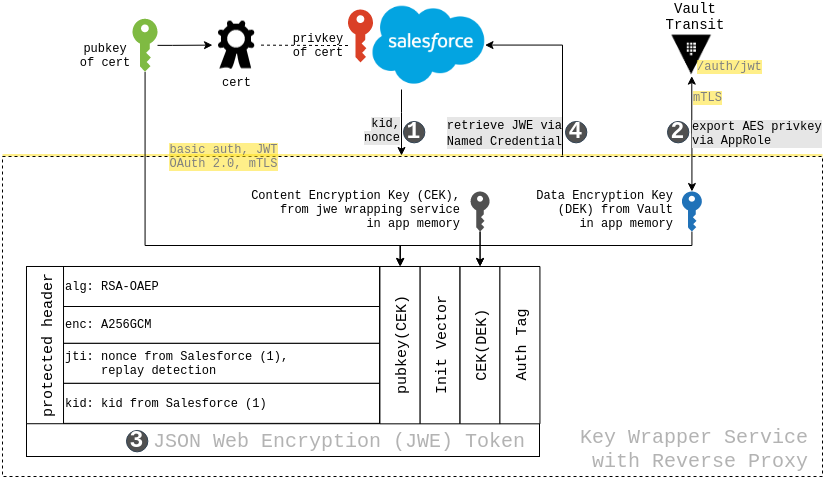
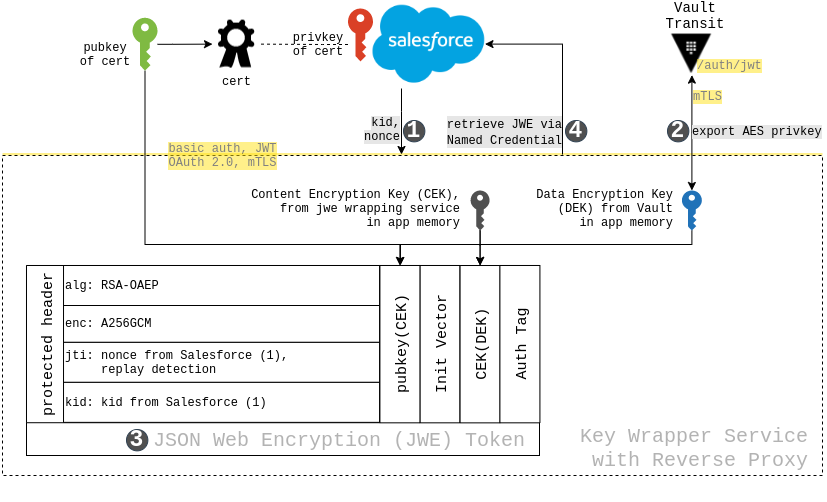
Improve dev setup instructions (#97)
* improve dev setup instructions
* explain Vault `auth_jwt_validation_pubkeys`
* Remove AppRole ref from picture
* document `write_jwt_to_tfvars.py`

diff --git a/docs/key_consumer_setup.md b/docs/key_consumer_setup.md
@@ -24,6 +24,15 @@ Configure Salesforce to authenticate its HYOK requests to `distributey` using JW
        - `Unique Name`: this is the `KID` of the `JWT` token, thus must be unique. Recommended naming scheme: `jwt_kid_salesforce_serviceX`
      - Download the certificate and save it by its `Unique Name`. It must later be configured in `distributey` (`config/auth/`).
      - Salesforce provides a certificate from which `distributey` only needs its public key. Use this command to extract it: `openssl x509 -pubkey -noout -in jwt_kid_salesforce_serviceX.crt > jwt_kid_salesforce_serviceX.pub`
+     - Store the same public `jwt_kid_salesforce_serviceX.pub` key on the Vault JWT auth backend as part of `auth_jwt_validation_pubkeys` in the Terraform variables ([`./docker/terraform/terraform.tfvars`](../docker/terraform/terraform.tfvars)). This task is automated in [dev/write_jwt_to_tfvars.py](../dev/write_jwt_to_tfvars.py) for [development setups](./usage.md). For a production setup, this configuration needs to be done on the Vault server side, not on the development Vault in the Docker container:
+       ```
+       auth_jwt_validation_pubkeys = [<<EOT
+       -----BEGIN PUBLIC KEY-----
+       ...
+       -----END PUBLIC KEY-----
+       EOT
+       ]
+       ```
    - Import your own key to Salesforce [[docs](key_consumer_setup_import_key_to_sf.md)] (**Not Recommended**)
 2. To go `Named Credential` on Salesforce and create a `New Named Credential` as following:
    | Config name  | Value |

diff --git a/docs/usage.md b/docs/usage.md
@@ -42,7 +42,7 @@ If Splunk logging has been enabled in `config/config.json`, use the following Sp
 - To switch from HTTPS (mTLS) to HTTP between Vault and `distributey`, configure `"VAULT_URL": "http://localhost:8200"` in `config/config.json`.
 
 ## Development Mode
-- Start Vault: `./00-build.sh -d && ./02-start.sh`
+- Start Vault: `./00-build.sh -d && ./01-start.sh`. Necessary files for the dev setup (`distributey/dev/dev_setup.sh`) are bootstrapped in development mode only (`-d`).
 - Create & activate venv: `python3 -m venv venv && source venv/bin/activate`
 - Install dependencies: `python3 -m pip install -r requirements.txt -r requirements_dev.txt`
 - Adjust config: `"VAULT_URL": "https://localhost:8300"`

diff --git a/README.md b/README.md
@@ -19,6 +19,7 @@ Currently supported integrations:
 
 
 ### For developers
+- Run Distributey in a local development environment [[docs](docs/usage.md#development-mode)]
 - Verify Vault deployment [[docs](docs/vault.md)]
 
 ## Architecture
